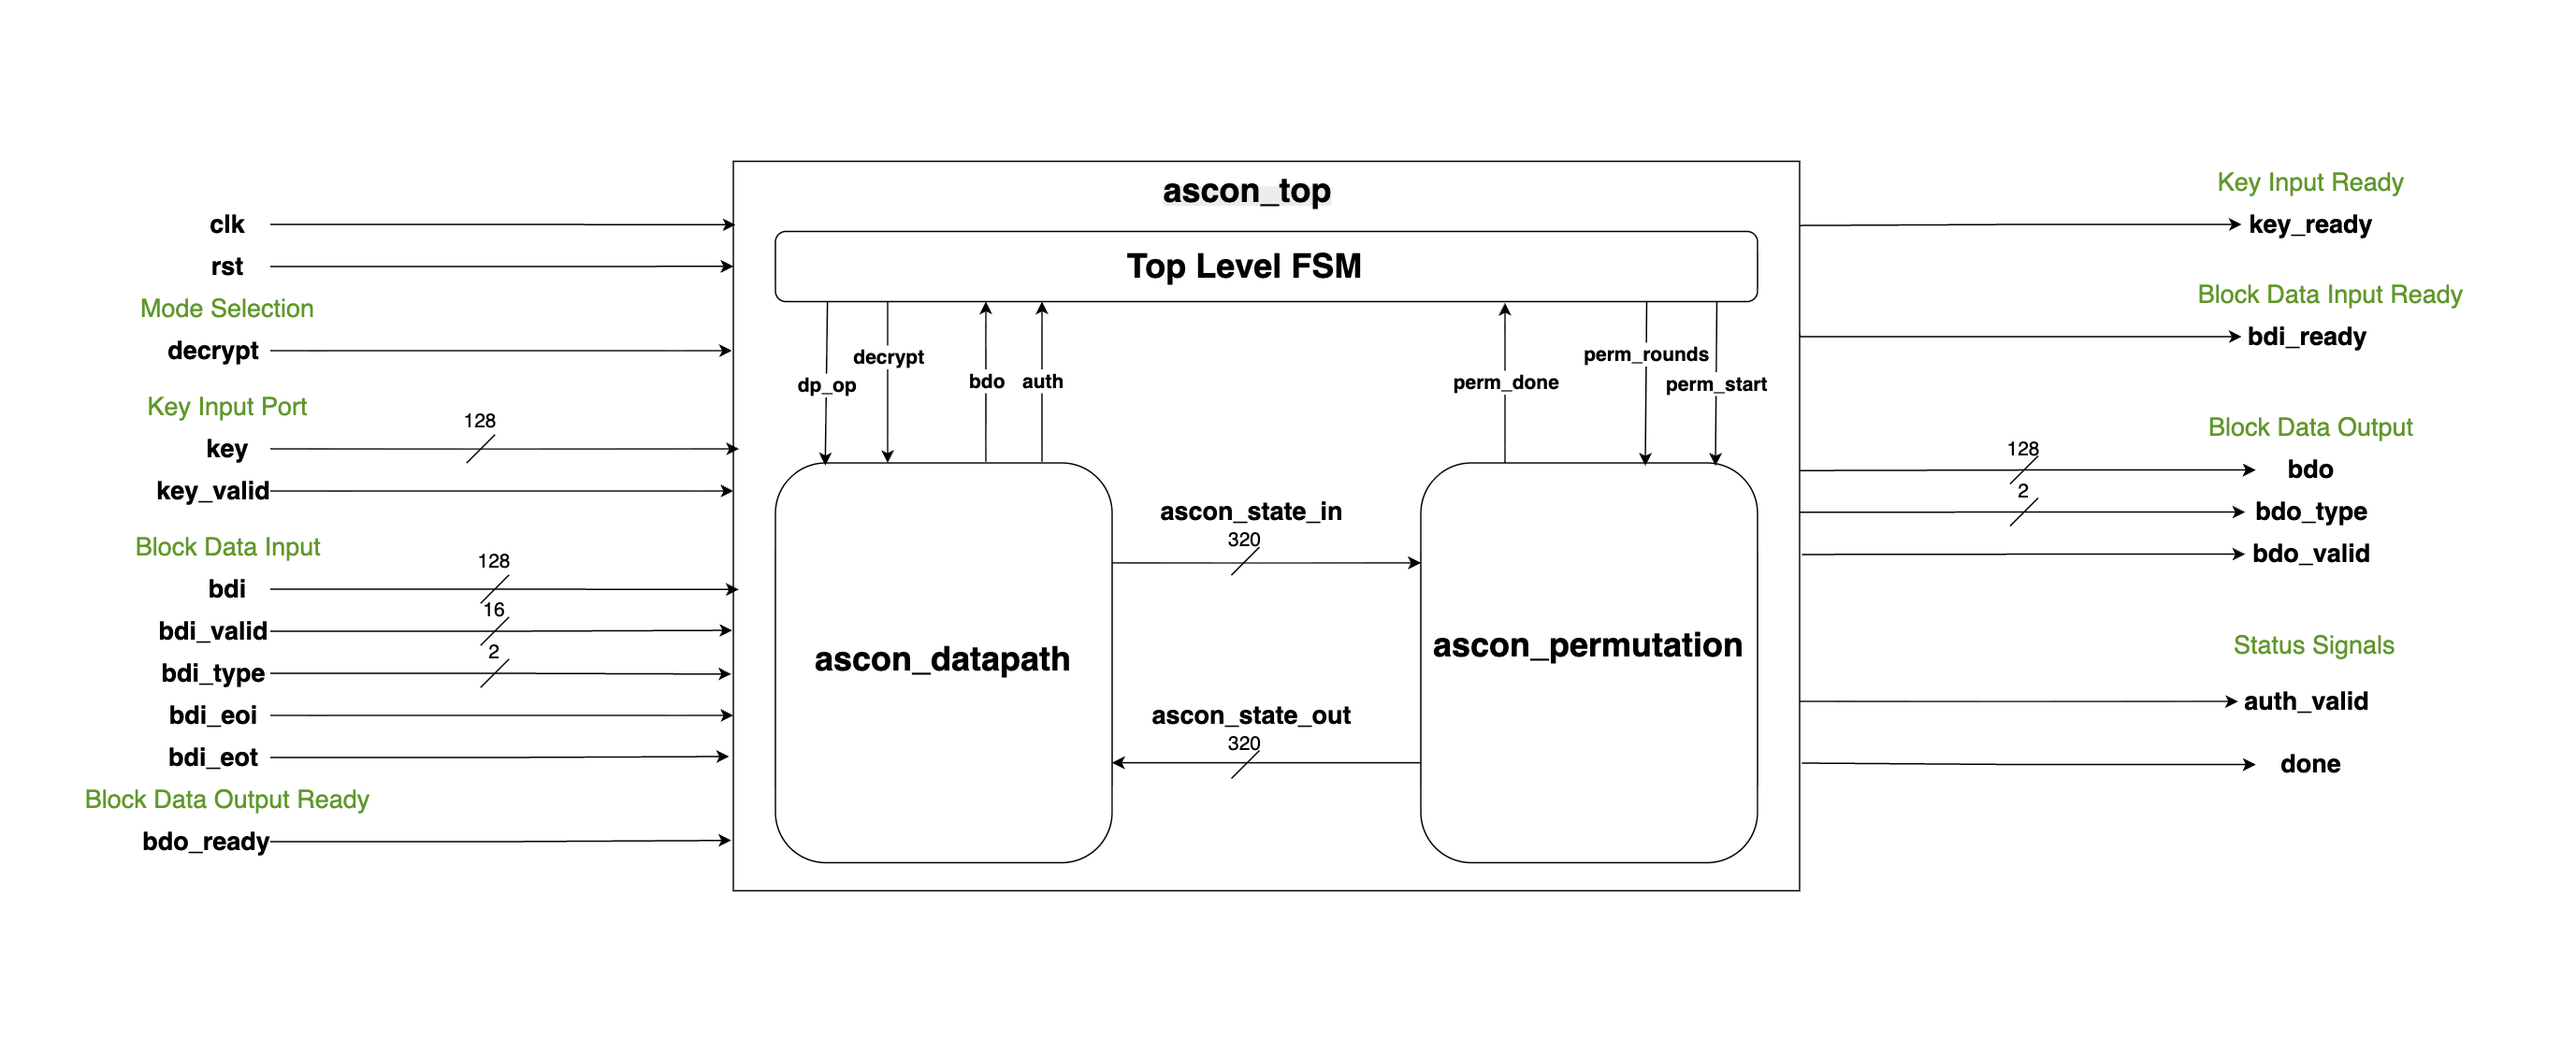
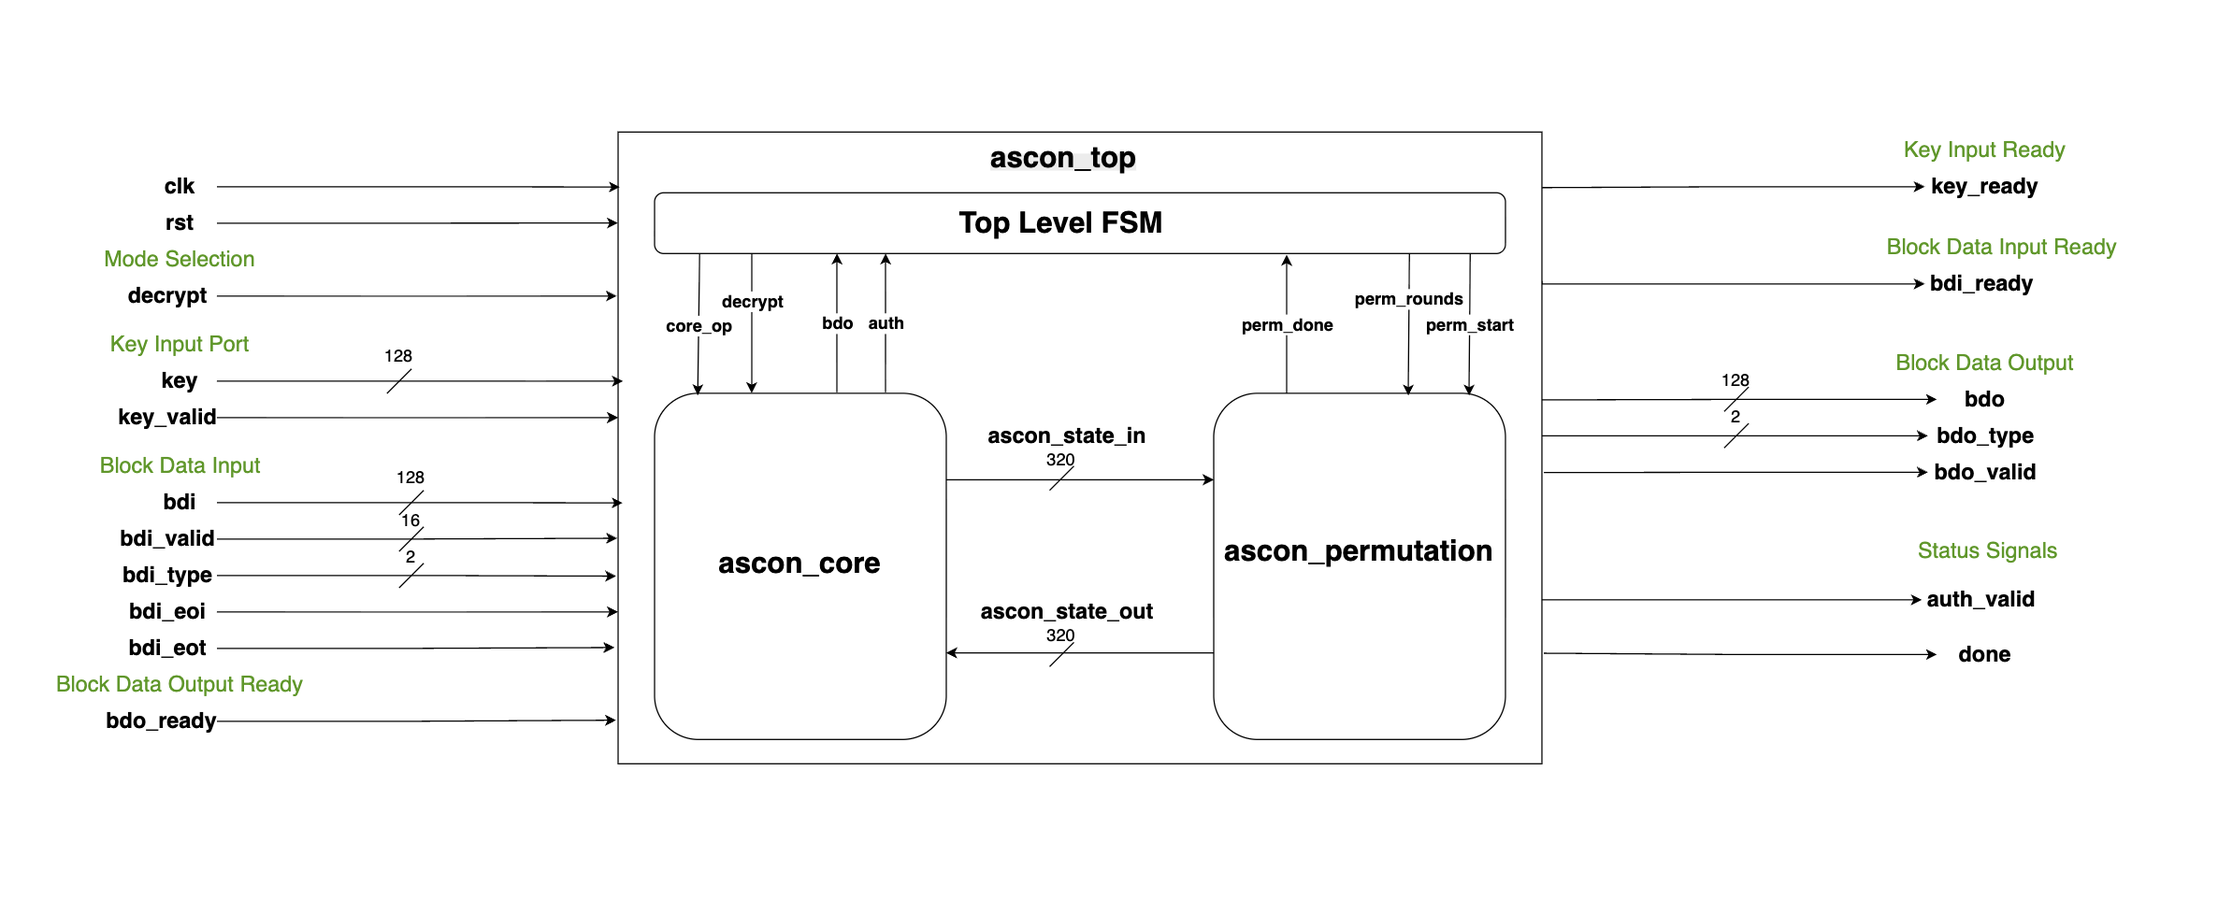
renaming the ascon_datapath module to ascon_core

diff --git a/README.md b/README.md
@@ -67,7 +67,7 @@ The test parses `LWC_AEAD_KAT_128_128.txt`, runs your encrypt function on each v
 ### Structure
 - **rtl/**: Synthesizable RTL (3 modules)
   - `ascon_top.v` — FSM controller (17 states)
-  - `ascon_datapath.v` — State register + 14 datapath operations
+  - `ascon_core.v` — State register + 14 state/update operations
   - `ascon_permutation.v` — Permutation engine (iterative, 1 round/cycle)
 
 - **test/**: Cocotb simulation harness
